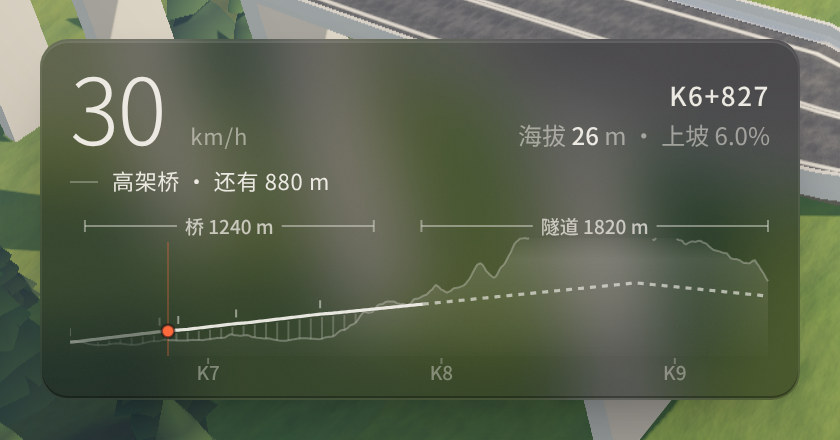
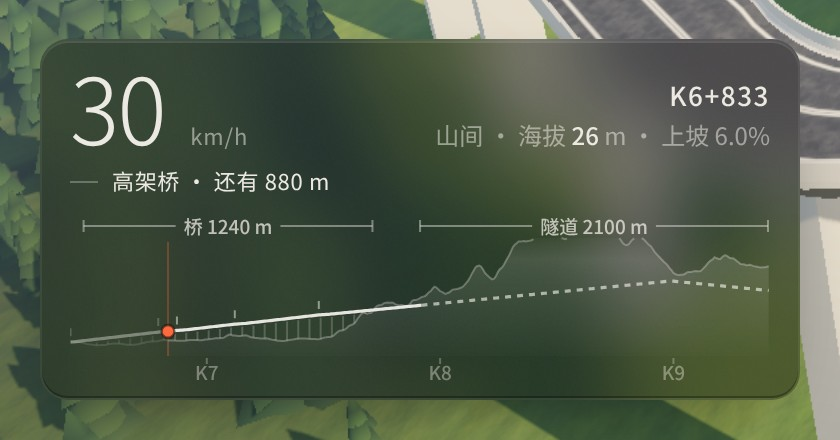
📝 docs: fresh hero and instrument shots
The old pictures predate the world name in the instrument and the sound
button. Both are taken again from the same hairpin viaduct on seed 7
(K6+833, aerial), rendered at 1280x720 with a device scale of 2: the hero
is that frame scaled to 1920x1080, the instrument a crop of it at full
size, so the type stays as sharp as the old one.

The README now says the instrument names the world, writes "A → B" across
a border, and marks the next world's border on the profile.

diff --git a/README.md b/README.md
@@ -65,13 +65,13 @@
 
 <div align="center">
 
-<img src="docs/assets/hud.jpg" width="460" alt="仪表：车速、桩号、坡度和前方 2.6 km 的纵断面">
+<img src="docs/assets/hud.jpg" width="460" alt="仪表：车速、桩号、所在的世界、海拔、坡度和前方 2.6 km 的纵断面">
 
 </div>
 
-左下角是一张路线纵断面，画法照公路设计图：浅色的一片是地面，白线是设计线，也就是路面高程；桥下画出桥墩，隧道是一条穿过山体的虚线，回头弯在线上打一个短刻度。120 m 以上的桥和隧道在上方标出长度。图上往后 420 m、往前 2.6 km，下一座桥、下一条隧道还没开到就能看见。
+左下角是一张路线纵断面，画法照公路设计图：浅色的一片是地面，白线是设计线，也就是路面高程；桥下画出桥墩，隧道是一条穿过山体的虚线，回头弯在线上打一个短刻度。120 m 以上的桥和隧道在上方标出长度。路开进下一个世界的地方竖一条虚线，旁边写着那个世界的名字。图上往后 420 m、往前 2.6 km，下一座桥、下一条隧道还没开到就能看见。
 
-上面是车速、桩号、海拔和坡度。桩号照工程写法，K6+827 是第 6 km 又 827 m。在桥上或隧道里，还会多一行，写着这一段还剩多少米。
+上面是车速、桩号、所在的世界、海拔和坡度；过交界时，世界一栏写成「河谷 → 沿海」。桩号照工程写法，K6+833 是第 6 km 又 833 m。在桥上或隧道里，还会多一行，写着这一段还剩多少米。
 
 图上的线都读自车正在开的那批路面采样。橙色的点是车。
 
